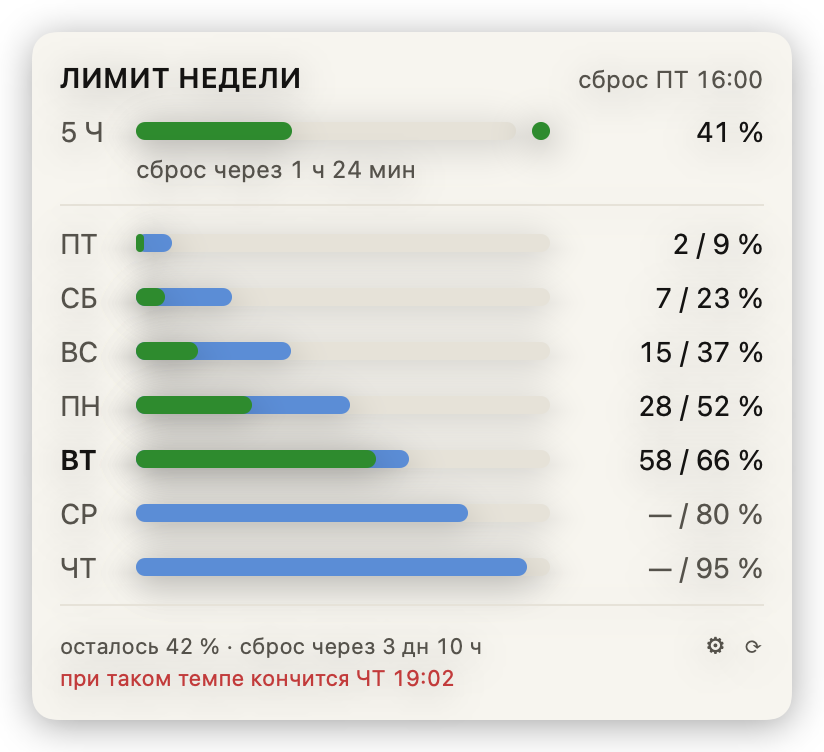
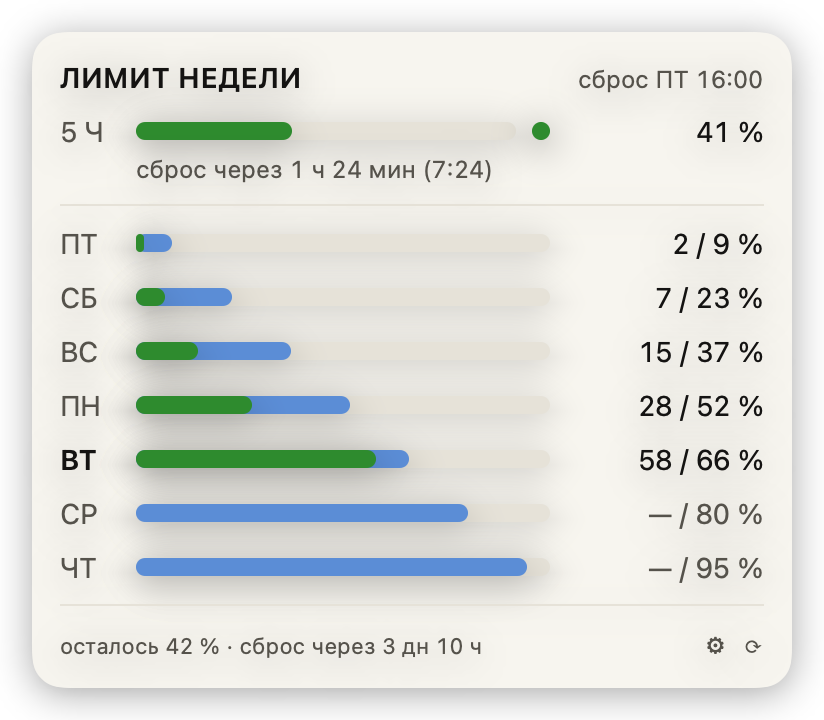
мини фикс #7
* Не роняю строгую сборку устаревшими ключами Keychain

* Собираю релиз на macos-26 ради нового облика

* Сделал обкатанный вид заводскими настройками

* Пересобрал картинки README под новые дефолты

* Описал переход на macos-26 в журнале

* Поднял версию до 0.1.6

diff --git a/Sources/ClaudeWeekTests/ConfigTests.swift b/Sources/ClaudeWeekTests/ConfigTests.swift
@@ -69,8 +69,8 @@ func runConfigTests(_ t: Harness) {
         t.equal(v.timeZone, "", "неизвестная таймзона — системная")
         t.equal(v.resolvedTimeZone, TimeZone.current, "пустая таймзона разворачивается в системную")
         t.equal(v.weeklyBudget, 0, "отрицательный бюджет обнуляется")
-        t.equal(v.thresholds.weekWarn, 80, "жёлтый порог вне 0…100 чинится")
-        t.equal(v.thresholds.weekCritical, 95, "красный порог вне 0…100 чинится")
+        t.equal(v.thresholds.weekWarn, 81, "жёлтый порог вне 0…100 чинится")
+        t.equal(v.thresholds.weekCritical, 93, "красный порог вне 0…100 чинится")
         t.equal(v.thresholds.sessionCritical, 90, "красный ниже жёлтого подтягивается к нему")
         t.equal(v.thresholds.sessionWarn, 90, "…а сам жёлтый остаётся как задан")
     }
@@ -96,7 +96,7 @@ func runConfigTests(_ t: Harness) {
 
     t.suite("конфиг: внешний вид") {
         let d = Config.default
-        t.equal(d.appearance.theme, .system, "тема по умолчанию — системная")
+        t.equal(d.appearance.theme, .contrast, "тема по умолчанию — контрастная")
         t.equal(d.appearance.transparentPanel, true, "панель по умолчанию прозрачная")
 
         var c = Config.default
@@ -138,12 +138,13 @@ func runConfigTests(_ t: Harness) {
     }
 
     t.suite("конфиг: подпись сброса сессии") {
-        t.equal(Config.default.appearance.sessionReset, .relative,
-                "по умолчанию — сколько осталось")
+        t.equal(Config.default.appearance.sessionReset, .both,
+                "по умолчанию — и остаток, и время")
 
-        let url = tempFile(#"{ "appearance": { "sessionReset": "both" } }"#)
+        let url = tempFile(#"{ "appearance": { "sessionReset": "absolute" } }"#)
         defer { try? FileManager.default.removeItem(at: url) }
-        t.equal(ConfigStore.load(from: url).appearance.sessionReset, .both, "своё значение прочиталось")
+        t.equal(ConfigStore.load(from: url).appearance.sessionReset, .absolute,
+                "своё значение прочиталось")
 
         // Внешний вид, записанный прошлой версией: ключа sessionReset в нём
         // нет. Раньше это ронять не могло — теперь может, и не должно:
@@ -153,15 +154,15 @@ func runConfigTests(_ t: Harness) {
         let c = ConfigStore.load(from: old)
         t.equal(c.appearance.theme, .midnight, "старый внешний вид уцелел")
         t.equal(c.appearance.cornerRadius, 4, "и второе его поле тоже")
-        t.equal(c.appearance.sessionReset, .relative, "новый ключ взялся из дефолтов")
+        t.equal(c.appearance.sessionReset, .both, "новый ключ взялся из дефолтов")
     }
 
     t.suite("конфиг: пороги окраски") {
         let d = Config.default.thresholds
-        t.equal(d.weekWarn, 80, "неделя желтеет с 80 %")
-        t.equal(d.weekCritical, 95, "и краснеет с 95 %")
-        t.equal(d.sessionWarn, 80, "у сессии те же 80 %")
-        t.equal(d.sessionCritical, 95, "и те же 95 %")
+        t.equal(d.weekWarn, 81, "неделя желтеет с 81 %")
+        t.equal(d.weekCritical, 93, "и краснеет с 93 %")
+        t.equal(d.sessionWarn, 81, "у сессии тот же жёлтый порог")
+        t.equal(d.sessionCritical, 95, "а красный у неё выше: сессия сбросится сама")
         t.check(d.colorizeMenuBar, "строка меню красится по умолчанию")
 
         let url = tempFile(#"{ "thresholds": { "weekWarn": 50, "colorizeMenuBar": false } }"#)
@@ -169,7 +170,7 @@ func runConfigTests(_ t: Harness) {
         let mine = ConfigStore.load(from: url).thresholds
         t.equal(mine.weekWarn, 50, "своё значение прочиталось")
         t.check(!mine.colorizeMenuBar, "выключенная окраска прочиталась")
-        t.equal(mine.sessionWarn, 80, "нетронутый порог взялся из дефолтов")
+        t.equal(mine.sessionWarn, 81, "нетронутый порог взялся из дефолтов")
 
         // Пороги прошлой версии считались от плана и в долях. Переносить их
         // нельзя — 0.9 доли превратились бы в 0.9 %, — и падать на них тоже.
@@ -199,19 +200,19 @@ func runConfigTests(_ t: Harness) {
     }
 
     t.suite("конфиг: вид панели") {
-        t.equal(Config.default.appearance.panelLayout, .week, "по умолчанию — вся неделя")
+        t.equal(Config.default.appearance.panelLayout, .compact, "по умолчанию — только сегодня")
 
-        let url = tempFile(#"{ "appearance": { "panelLayout": "compact" } }"#)
+        let url = tempFile(#"{ "appearance": { "panelLayout": "week" } }"#)
         defer { try? FileManager.default.removeItem(at: url) }
-        t.equal(ConfigStore.load(from: url).appearance.panelLayout, .compact,
-                "компактный вид прочитался")
+        t.equal(ConfigStore.load(from: url).appearance.panelLayout, .week,
+                "вся неделя прочиталась")
 
         // Ключа panelLayout в конфиге прошлой версии нет, и появиться он должен
         // дефолтным — не тронув остальной внешний вид.
         let old = tempFile(#"{ "appearance": { "theme": "paper", "showSession": false } }"#)
         defer { try? FileManager.default.removeItem(at: old) }
         let c = ConfigStore.load(from: old)
-        t.equal(c.appearance.panelLayout, .week, "новый ключ взялся из дефолтов")
+        t.equal(c.appearance.panelLayout, .compact, "новый ключ взялся из дефолтов")
         t.equal(c.appearance.theme, .paper, "прежний внешний вид уцелел")
         t.equal(c.appearance.showSession, false, "и второе его поле тоже")
 

diff --git a/Sources/ClaudeWeekCore/Config.swift b/Sources/ClaudeWeekCore/Config.swift
@@ -128,15 +128,19 @@ public struct AppearanceConfig: Codable, Sendable, Equatable {
     /// Весь недельный ряд или только текущие сутки.
     public var panelLayout: PanelLayout
 
+    // Значения по умолчанию — тот вид, к которому пришла обкатка: плотная
+    // вуаль поверх материала, контрастная тема, компактная панель. Прогноз
+    // выключен намеренно: он занимает вторую строку футера и на глаз спорит
+    // с планом, а включается одной галкой в настройках.
     public init(
-        theme: ThemeKind = .system,
+        theme: ThemeKind = .contrast,
         transparentPanel: Bool = true,
-        panelTintOpacity: Double = 0.18,
-        cornerRadius: Double = 12,
+        panelTintOpacity: Double = 0.6,
+        cornerRadius: Double = 16,
         showSession: Bool = true,
-        showForecast: Bool = true,
-        sessionReset: SessionResetDisplay = .relative,
-        panelLayout: PanelLayout = .week
+        showForecast: Bool = false,
+        sessionReset: SessionResetDisplay = .both,
+        panelLayout: PanelLayout = .compact
     ) {
         self.theme = theme
         self.transparentPanel = transparentPanel
@@ -207,10 +211,14 @@ public struct Thresholds: Codable, Sendable, Equatable {
     /// заполнением кольца и цифрой.
     public var colorizeMenuBar: Bool
 
+    // Пороги сдвинуты с круглых чисел не для красоты: 81 — та отметка, после
+    // которой недельного остатка перестаёт хватать на полный рабочий день, а
+    // 93 у недели ниже сессионных 95, потому что недельный лимит не сбросится
+    // до конца недели и предупреждать о нём надо раньше.
     public init(
-        weekWarn: Double = 80,
-        weekCritical: Double = 95,
-        sessionWarn: Double = 80,
+        weekWarn: Double = 81,
+        weekCritical: Double = 93,
+        sessionWarn: Double = 81,
         sessionCritical: Double = 95,
         colorizeMenuBar: Bool = true
     ) {
@@ -291,7 +299,7 @@ public struct Config: Codable, Sendable, Equatable {
         refreshInterval: 300,
         provider: .auto,
         workHours: WorkHours.default,
-        menuBarStyle: .percent,
+        menuBarStyle: .ring,
         ringArc: .session,
         weeklyBudget: 0,
         calibration: Calibration(),

diff --git a/Sources/ClaudeWeekTests/PlanTests.swift b/Sources/ClaudeWeekTests/PlanTests.swift
@@ -105,12 +105,12 @@ func runPlanTests(_ t: Harness) {
         t.equal(calm.state(), .normal, "45 % — спокойно")
         t.check(calm.metrics(at: now).exhaustionDate == nil, "в графике лимит не кончится")
 
-        // Пороги берутся включительно: настроенные 80 % загораются ровно на 80.
+        // Пороги берутся включительно: настроенные 81 % загораются ровно на 81.
         let warning = UsageSnapshot.make(
-            usedPercent: 80, cumulativeByDay: [], window: window,
+            usedPercent: 81, cumulativeByDay: [], window: window,
             source: .official, fetchedAt: now, isEstimate: false
         )
-        t.equal(warning.state(), .warning, "80 % — жёлтый ровно на пороге")
+        t.equal(warning.state(), .warning, "81 % — жёлтый ровно на пороге")
 
         // Первый рабочий час новой недели: план околонулевой, и три процента
         // обгоняют его в разы. Цвет при этом обязан остаться спокойным.

diff --git a/Sources/ClaudeWeekCore/Keychain.swift b/Sources/ClaudeWeekCore/Keychain.swift
@@ -111,6 +111,12 @@ public struct KeychainCredentials: CredentialsSource {
             // interactionNotAllowed — диалог доступа к записи файловой связки
             // не подавляет (проверено: запрос с ней встаёт на диалоге
             // насмерть, а с этими ключами возвращает ошибку и уходит).
+            //
+            // Строгая сборка о него больше не спотыкается: группу
+            // DeprecatedDeclaration CI понижает до предупреждения флагом
+            // -Wwarning. Понижение общее на весь пакет, так что новое
+            // устаревшее место здесь никто не поймает за руку — проверяйте
+            // такие вызовы глазами.
             kSecUseAuthenticationUI: kSecUseAuthenticationUIFail,
         ] as CFDictionary, &item)
 

diff --git a/Sources/ClaudeWeekApp/Screenshot.swift b/Sources/ClaudeWeekApp/Screenshot.swift
@@ -39,6 +39,11 @@ enum Screenshot {
         // рабочий день оставляем из конфига: от них зависят подписи строк.
         config.appearance = AppearanceConfig()
         config.thresholds = Thresholds()
+        // Единственное отступление от заводского вида: недельный ряд. Из
+        // коробки панель компактная, но картинка в README должна показывать
+        // то, ради чего программа написана, — все семь суток разом. Как
+        // свернуть панель до сегодняшнего дня, сказано в руководстве.
+        config.appearance.panelLayout = .week
         // Материал строки меню в оффскрин-рендер не попадает — фон рисуем
         // сплошным цветом палитры.
         config.appearance.transparentPanel = false

diff --git a/Sources/ClaudeWeekCore/Version.swift b/Sources/ClaudeWeekCore/Version.swift
@@ -1,7 +1,7 @@
 import Foundation
 
 public enum ClaudeWeek {
-    public static let version = "0.1.5"
+    public static let version = "0.1.6"
     public static let bundleIdentifier = "com.greem4.claudeweek"
     /// Откуда приходят обновления: `владелец/репозиторий` на GitHub. Тот же
     /// репозиторий выпускает образы, поэтому имя одно на проверку версии и на

diff --git a/docs/USAGE.md b/docs/USAGE.md
@@ -313,8 +313,8 @@ P12_PASSWORD=… ./scripts/signing-cert.sh --import ~/claudeweek-signing.p12
 | Значок | полоса с процентом, только полоса или кольцо с двумя лимитами |
 | Заполнять дугой | только для кольца: что показывает дуга — пятичасовую сессию (по умолчанию) или недельный лимит. Второй лимит достаётся цифре в центре |
 | Менять цвет по порогам | выключенный — значок всегда нейтрального цвета, расход виден заполнением и цифрой; панель красится в любом случае |
-| Недельный лимит | после скольких процентов желтеет и краснеет (по умолчанию 80 и 95) |
-| Пятичасовая сессия | то же для сессии — свои пороги, независимые от недельных |
+| Недельный лимит | после скольких процентов желтеет и краснеет (по умолчанию 81 и 93) |
+| Пятичасовая сессия | то же для сессии — свои пороги, независимые от недельных (по умолчанию 81 и 95) |
 
 У дуги и цифры в кольце цвета раздельные: каждая горит по порогам своего
 лимита. Красная дуга при спокойной цифре — это не сбой, а сессия на исходе
@@ -322,7 +322,10 @@ P12_PASSWORD=… ./scripts/signing-cert.sh --import ~/claudeweek-signing.p12
 
 Цвет считается по факту: сколько потрачено прямо сейчас. План и прогноз на
 него не влияют — они отвечают на вопрос «в графике ли я», а цвет на «пора ли
-беспокоиться». Порог срабатывает включительно: 80 % загораются ровно на 80.
+беспокоиться». Порог срабатывает включительно: 81 % загораются ровно на 81.
+Красный у недели ниже сессионного (93 против 95) намеренно: сессия сбросится
+сама через пять часов, а недельный лимит — только в день сброса, и запас там
+кончается всерьёз.
 
 Те же пороги красят заголовок панели (недельные) и полосу пятичасовой сессии
 (сессионные). Суточные полосы им не подчиняются: они желтеют на любом
@@ -429,19 +432,19 @@ launchd-агент не трогаются.
 | `refreshInterval` | `300` | секунды между обновлениями, минимум 30 |
 | `provider` | `auto` | `official`, `local` или `auto` |
 | `workHours.start` / `.end` | `11` / `24` | рабочий день, по которому раскладывается лимит; `24` — полночь. `0`/`24` — считать круглосуточно, как раньше |
-| `menuBarStyle` | `percent` | `percent`, `compact` (только полоска) или `ring` (кольцо с процентом) |
+| `menuBarStyle` | `ring` | `percent`, `compact` (только полоска) или `ring` (кольцо с процентом) |
 | `ringArc` | `session` | что заполняет дугу кольца: `session` или `week`; второй лимит уходит на цифру внутри |
 | `weeklyBudget` | `0` | условная стоимость недели для офлайн-оценки; ставится калибровкой |
-| `thresholds.weekWarn` / `.weekCritical` | `80` / `95` | проценты недельного лимита, после которых цифра желтеет и краснеет |
-| `thresholds.sessionWarn` / `.sessionCritical` | `80` / `95` | то же для пятичасовой сессии — кольцо в строке меню и полоса в панели |
+| `thresholds.weekWarn` / `.weekCritical` | `81` / `93` | проценты недельного лимита, после которых цифра желтеет и краснеет |
+| `thresholds.sessionWarn` / `.sessionCritical` | `81` / `95` | то же для пятичасовой сессии — кольцо в строке меню и полоса в панели |
 | `thresholds.colorizeMenuBar` | `true` | красить ли значок в строке меню по порогам |
-| `appearance.theme` | `system` | `system`, `midnight`, `graphite`, `paper`, `contrast` |
+| `appearance.theme` | `contrast` | `system`, `midnight`, `graphite`, `paper`, `contrast` |
 | `appearance.transparentPanel` | `true` | материал с размытием или сплошной фон |
-| `appearance.panelTintOpacity` | `0.18` | плотность вуали поверх материала, 0…1 |
-| `appearance.cornerRadius` | `12` | скругление углов панели, pt |
-| `appearance.panelLayout` | `week` | `week` — семь суточных полос, `compact` — только текущие сутки (неделя раскрывается кликом по строке дня) |
-| `appearance.showSession` / `.showForecast` | `true` / `true` | показывать строку сессии и прогноз |
-| `appearance.sessionReset` | `relative` | подпись сброса сессии: `relative` («через 1 ч 12 мин»), `absolute` («в 14:35») или `both` |
+| `appearance.panelTintOpacity` | `0.6` | плотность вуали поверх материала, 0…1 |
+| `appearance.cornerRadius` | `16` | скругление углов панели, pt |
+| `appearance.panelLayout` | `compact` | `week` — семь суточных полос, `compact` — только текущие сутки (неделя раскрывается кликом по строке дня) |
+| `appearance.showSession` / `.showForecast` | `true` / `false` | показывать строку сессии и прогноз |
+| `appearance.sessionReset` | `both` | подпись сброса сессии: `relative` («через 1 ч 12 мин»), `absolute` («в 14:35») или `both` |
 
 Незнакомые и пропущенные ключи не ломают запуск: недостающее берётся из
 дефолтов, а недопустимые значения чинятся с предупреждением в лог. Ключи от

diff --git a/docs/ROADMAP.md b/docs/ROADMAP.md
@@ -16,7 +16,7 @@
 - [Ограничения, с которыми живём](#ограничения-с-которыми-живём) — 10–13
 - [Что сознательно не делаем](#что-сознательно-не-делаем)
 - [Что закрыл аудит](#что-закрыл-аудит-2026-08-05) — журналы 2026-08-05, 06 и 07
-- [Что сделано после аудита](#что-сделано-после-аудита) — журнал с 2026-08-08
+- [Что сделано после аудита](#что-сделано-после-аудита) — журналы 2026-08-08 и 10
 
 ---
 
@@ -311,3 +311,11 @@ requirement не менялся и приложение держалось в с
 | автозапуск жил галочкой в меню по правому клику — там, где настройки не ищут (бывший пункт 4) | строка «Запускать при входе в систему» первой секцией вкладки «Общие»; из меню пункт убран, чтобы одно и то же состояние не показывалось в двух местах. Механизм прежний — плист `LoginItem`, `SMAppService` по-прежнему не заводим |
 | автообновления не было: о новой версии узнавали случайно, ставили её тем же `install.sh` (бывший пункт 11) | программа спрашивает GitHub при запуске, раз в сутки и после сна; найденный выпуск показывает строкой в панели, а ставится он одной кнопкой на вкладке «О программе» — с обычными окнами macOS: заметки к релизу перед установкой, вопрос про перезапуск после. Кнопка качает образ релиза, сверяет SHA256 с `SHA256SUMS.txt`, проверяет подпись и версию внутри и заменяет бандл одним движением (`Updater`, `UpdateInstaller`, `UpdateController`, `--update`). Из меню по правому щелчку обновление убрано по той же причине, что и автозапуск: одно состояние — одно место. Sparkle не заводили: appcast и Developer ID для проекта без сертификата — лишняя площадка, а сумма из релиза даёт ту же проверку целостности |
 | синяя рамка фокуса вокруг ⚙ и ⟳ в футере панели: AppKit обводит нажатую кнопку прямоугольником, и на панели размером с меню он читается как ошибка вёрстки | `.focusEffectDisabled()` на обеих кнопках — то же решение, что уже стояло на кружке источника |
+
+### 2026-08-10
+
+| Было | Стало |
+|---|---|
+| релиз собирался на раннере `macos-15`, то есть с SDK 15, и на macOS 26 система рисовала такому бандлу прежнее плоское оформление: скачанная 0.1.5 выглядела старее сборки, собранной дома на CLT 26 | оба workflow идут на `macos-26`, а после сборки бандла сверяют SDK через `vtool` и падают, если раннер принёс что-то старее 26. Минимальная версия системы к SDK не привязана — она задана в `Package.swift` (`.macOS(.v14)`), поэтому образ по-прежнему запускается на macOS 14 и 15 |
+| CI падал на `Keychain.swift`: `kSecUseAuthenticationUIFail` устарел с macOS 11, а `-warnings-as-errors` превращает предупреждение в ошибку. Замены у ключа нет — LAContext диалог не гасит, и это проверено | группа `DeprecatedDeclaration` понижена обратно до предупреждения флагом `-Wwarning`: оно остаётся в логе на виду, но сборку не роняет. Понижение общее на пакет, так что новое устаревшее место придётся замечать глазами |
+| заводские настройки расходились с тем видом, к которому пришла обкатка: полоса вместо кольца, системная палитра, недельный ряд, круглые пороги 80/95 | дефолты — кольцо, `contrast`, компактная панель, вуаль 0.6, скругление 16, подпись сброса «и то, и другое», прогноз выключен, пороги 81/93 у недели и 81/95 у сессии. Картинки README снимаются заводским видом, и только недельный ряд для них задаётся явно: витрина показывает то, ради чего программа написана |

diff --git a/docs/ARCHITECTURE.md b/docs/ARCHITECTURE.md
@@ -323,7 +323,10 @@ swift scripts/probe-panel.swift --behaviors   # прежде чем менять
 
 ```bash
 swift build                     # оба таргета
-swift build -Xswiftc -warnings-as-errors   # так же, как в CI: предупреждение = падение
+# так же, как в CI: предупреждение = падение. Исключение — устаревшие
+# объявления: ключи kSecUseAuthenticationUI в Keychain.swift оставлены
+# намеренно, замены им нет, и группа понижена обратно до предупреждения.
+swift build -Xswiftc -warnings-as-errors -Xswiftc -Wwarning -Xswiftc DeprecatedDeclaration
 swift run ClaudeWeekTests       # 371 проверка, без сети и без UI
 swift run ClaudeWeekApp         # запустить из исходников (появится вторая иконка!)
 ./scripts/signing-cert.sh       # один раз: постоянный сертификат подписи
@@ -371,6 +374,15 @@ Command Line Tools. Суффикс в имени образа `make-dmg.sh` бе
 [`release.yml`](../.github/workflows/release.yml) по тегу `vX.Y.Z`: сверяет тег
 с `Version.swift`, прогоняет проверки, кладёт в Releases `.dmg` под Apple
 Silicon и его контрольную сумму.
+
+Оба гоняются на раннере `macos-26`, и это не про свежесть ради свежести:
+оформление на macOS 26 система выдаёт по SDK, которым слинкован бинарь, а не
+по коду. Собранное с SDK 15 приложение Tahoe рисует прежним плоским видом —
+именно так релиз 0.1.5 оказался внешне старее сборки с той же машины
+разработчика. Минимальная версия системы к этому не привязана: она задана в
+`Package.swift` (`.macOS(.v14)`), поэтому образ с SDK 26 по-прежнему
+запускается на macOS 14 и 15. Оба workflow после сборки бандла сверяют SDK
+(`vtool -show-build`) и падают, если раннер принёс что-то старее 26.
 
 Оба файла релиза — вход для автообновления: по имени `*-arm64.dmg`
 `Updater` находит образ, а `SHA256SUMS.txt` даёт ту единственную проверку

diff --git a/CONTRIBUTING.md b/CONTRIBUTING.md
@@ -19,7 +19,9 @@
 То же, что гоняет [CI](.github/workflows/ci.yml) — прогоните до отправки:
 
 ```bash
-swift build -Xswiftc -warnings-as-errors   # так собирает CI: предупреждение = падение
+# так собирает CI: предупреждение = падение, кроме устаревших объявлений —
+# по ним в Keychain.swift есть осознанное исключение, см. комментарий там
+swift build -Xswiftc -warnings-as-errors -Xswiftc -Wwarning -Xswiftc DeprecatedDeclaration
 swift run ClaudeWeekTests                  # все проверки проходят
 ./scripts/make-app.sh                      # бандл собирается
 ```
